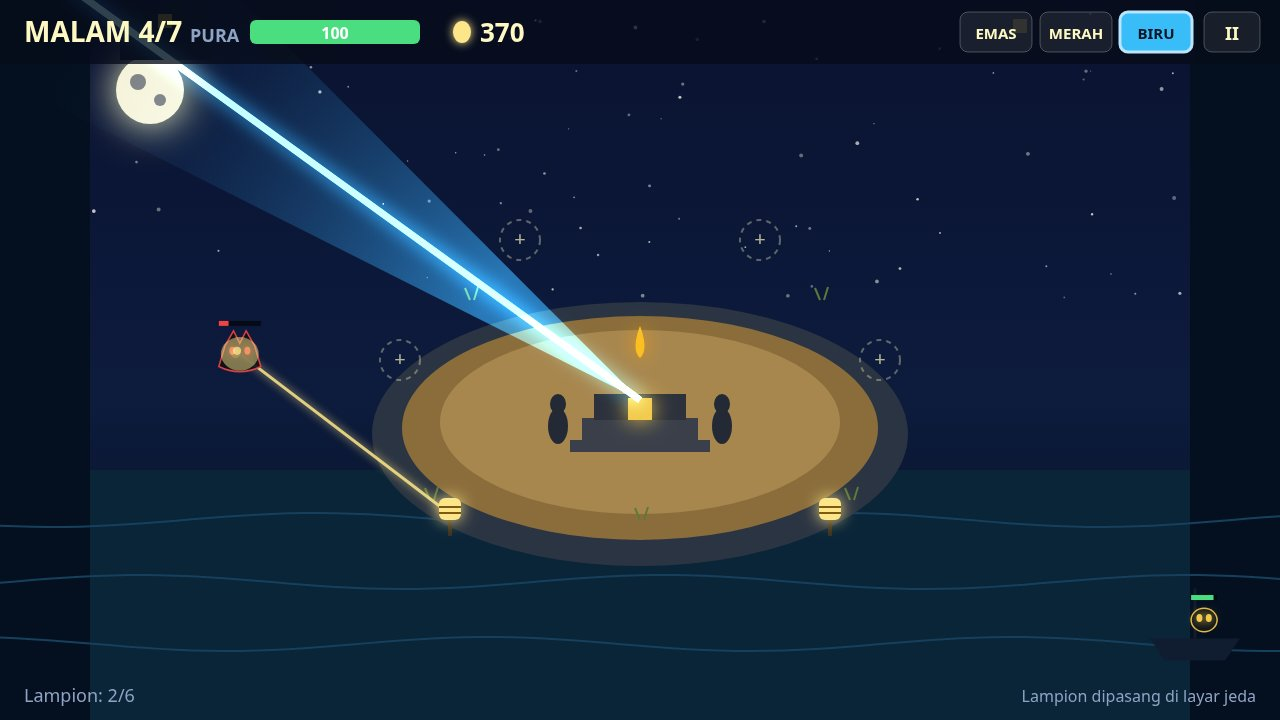
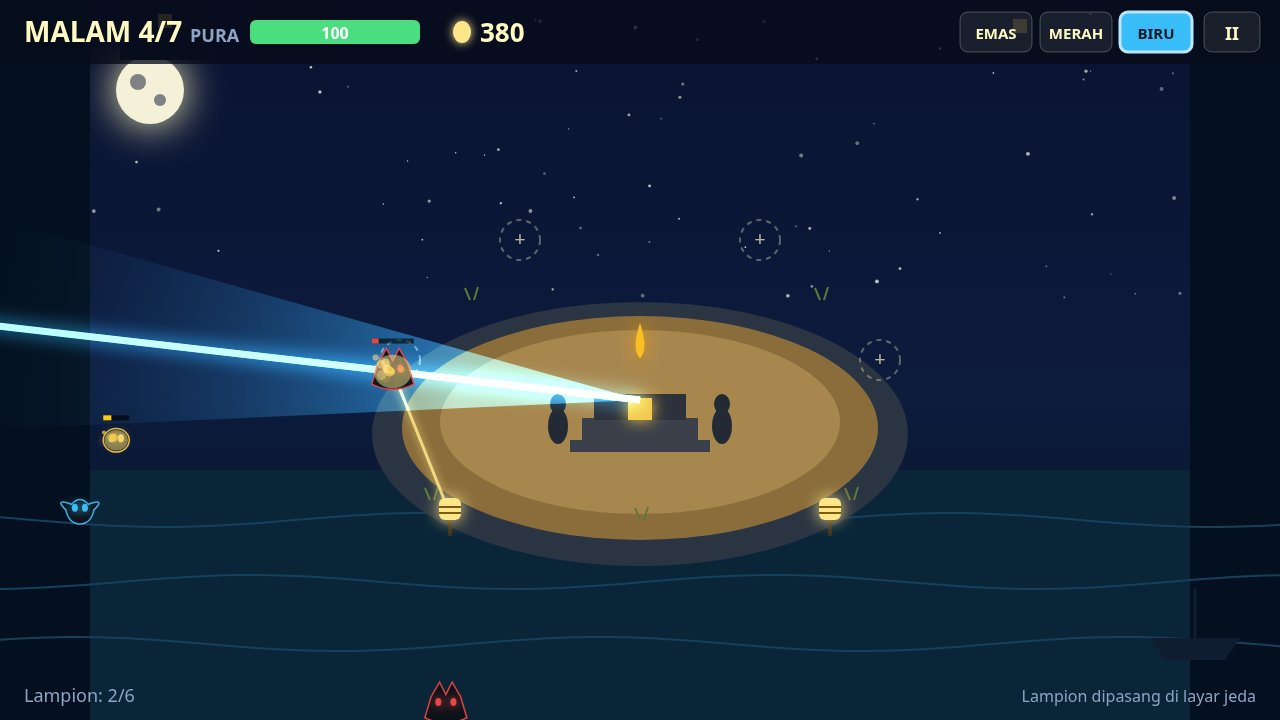
PELITA: re-stage play shot, beam hits enemy + ember particles
Play shot was staged with a 15s sweep pilot: the beam ended up on empty
sky (moon) with only 2 shadows alive and no hit. New staging: dodge pilot
(aims away from every shadow) for 20s so the wave accumulates, then track
the nearest shadow in blue for 0.5s. Captured frame (seed 1, night 4):
blue beam burning a mid-field besar with 16 ember particles, 4 shadows
alive, 2 lanterns firing, HUD complete. No mechanic/balance change;
staging only (shots.js). 2-play.jpg 55124 bytes, deterministic 2 runs.

diff --git a/game/src/shots.js b/game/src/shots.js
@@ -10,7 +10,6 @@ import { EVENT_OVER, EVENT_WIN } from './world.js';
 import { SCREEN_OVER, SCREEN_PLAY, SCREEN_TITLE, SCREEN_UPGRADE, SCREEN_WIN } from './render.js';
 
 const START_SECONDS = 5;
-const PLAY_SECONDS = 15;
 
 function angleDiff(a, b) {
   let d = a - b;
@@ -42,6 +41,24 @@ export function sweepPilot(state) {
   const sweep = span > 0.05 ? span / 2 : 0.4;
   const aimAngle = mid + Math.sin(state.time * 1.1) * sweep;
   return { aimAngle, color: 'gold' };
+}
+
+/** The dodge pilot (screenshot staging only): aim at the angle farthest from
+ *  every live enemy, so the beam burns nothing and the wave accumulates. */
+export function dodgePilot(state) {
+  const angles = state.enemies.map((enemy) => angleTo(enemy.x, enemy.y));
+  let best = -Math.PI / 2;
+  let bestMin = -1;
+  for (let deg = -180; deg < 180; deg += 5) {
+    const angle = (deg * Math.PI) / 180;
+    let minDist = Infinity;
+    for (const enemyAngle of angles) {
+      minDist = Math.min(minDist, Math.abs(angleDiff(angle, enemyAngle)));
+    }
+    if (angles.length === 0) minDist = Math.PI;
+    if (minDist > bestMin) { bestMin = minDist; best = angle; }
+  }
+  return { aimAngle: best, color: 'gold' };
 }
 
 /** The tracking pilot: aim at the most threatening enemy (nearest the temple)
@@ -134,17 +151,24 @@ export function stageShot(name, world) {
   }
   if (name === 'play') {
     // Night 4, mid-fight: two lanterns, Api + Lebar tier 1, and a BLUE beam.
-    // The beam sweeps (so several shadows stay alive in frame) but burns blue,
-    // so the dossier shows the colour system and the lanterns at once.
+    // Staging: the beam first DODGES (aims away from every shadow) for 20 s so
+    // the wave accumulates, then TRACKS the nearest shadow in blue for 0.5 s,
+    // so the captured frame shows the blue beam BURNING a mid-field enemy with
+    // embers, 4 shadows alive, 2 lanterns firing. (The plain 15 s sweep left
+    // the beam on empty sky with only 2 shadows alive and no hit.)
     world.reset();
     world.startNight(4, {
       light: 320,
       upgrades: { api: 1, lebar: 1, lampion: 0, tempo: 0 },
       lanterns: [0, 1],
     });
+    const DODGE_SECONDS = 20;
+    const TRACK_SECONDS = 0.5;
+    const dodgeSteps = Math.round(DODGE_SECONDS / STEP);
+    const totalSteps = Math.round((DODGE_SECONDS + TRACK_SECONDS) / STEP);
     let over = false;
-    for (let index = 0; index < PLAY_SECONDS / STEP; index += 1) {
-      const pilot = sweepPilot(state);
+    for (let index = 0; index < totalSteps; index += 1) {
+      const pilot = index < dodgeSteps ? dodgePilot(state) : trackPilot(state);
       pilot.color = 'blue';
       const events = world.step(STEP, pilot);
       if (events & EVENT_OVER) { over = true; break; }
